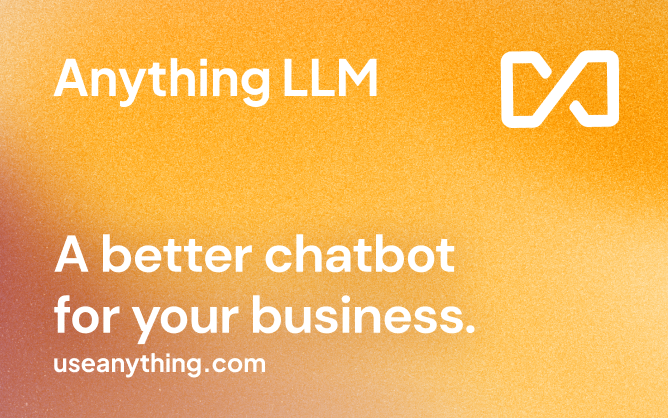
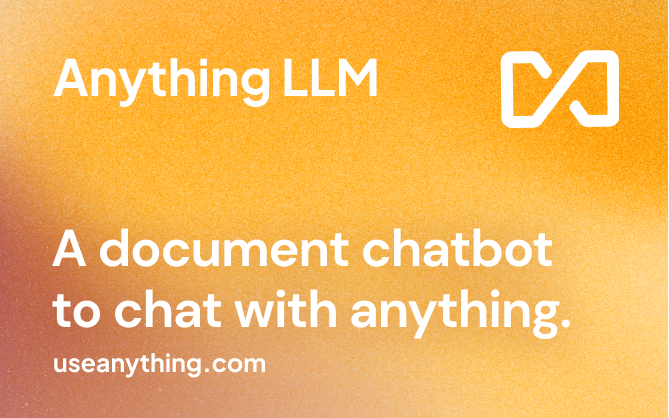
Update screenshots of new UI Update README to point to updated YT video

Changed region(s): [[0.0598, 0.6842, 0.867, 0.8397], [0.0598, 0.5287, 0.8371, 0.6531]]

diff --git a/README.md b/README.md
@@ -3,8 +3,8 @@
 </p>
 
 <p align="center">
-    <b>AnythingLLM: A business-compliant document chatbot</b>. <br />
-    A hyper-efficient and open-source enterprise-ready document chatbot solution for all.
+    <b>AnythingLLM: A document chatbot to chat with <i>anything!</i></b>. <br />
+    An efficient, customizable, and open-source enterprise-ready document chatbot solution.
 </p>
 
 <p align="center">
@@ -22,15 +22,14 @@
   </a>
 </p>
 
-A full-stack application that enables you to turn any document, resource, or piece of content into context that any LLM can use as references during chatting. This application allows you to pick and choose which LLM or Vector Database you want to use. Currently this project supports [Pinecone](https://pinecone.io), [ChromaDB](https://trychroma.com) & more for vector storage and [OpenAI](https://openai.com) for LLM/chatting.
+A full-stack application that enables you to turn any document, resource, or piece of content into context that any LLM can use as references during chatting. This application allows you to pick and choose which LLM or Vector Database you want to use.
 
-
-![Chatting](/images/screenshots/chat.png)
+![Chatting](/images/screenshots/chatting.gif)
 [view more screenshots](/images/screenshots/SCREENSHOTS.md)
 
 ### Watch the demo!
 
-[![Watch the video](/images/youtube.png)](https://youtu.be/0vZ69AIP_hM)
+[![Watch the video](/images/youtube.png)](https://youtu.be/f95rGD9trL0)
 
 
 ### Product Overview
@@ -47,9 +46,23 @@ Some cool features of AnythingLLM
 - Each chat response contains a citation that is linked to the original content
 - Simple technology stack for fast iteration
 - 100% Cloud deployment ready.
-- "Bring your own LLM" model. _still in progress - openai support only currently_
+- "Bring your own LLM" model.
 - Extremely efficient cost-saving measures for managing very large documents. You'll never pay to embed a massive document or transcript more than once. 90% more cost effective than other document chatbot solutions.
 - Full Developer API for custom integrations!
+
+### Supported LLMs and Vector Databases
+**Supported LLMs:**
+- OpenAI
+- Azure OpenAI
+- Anthropic ClaudeV2
+
+**Supported Vector Databases:**
+- [LanceDB](https://github.com/lancedb/lancedb) (default)
+- [Pinecone](https://pinecone.io)
+- [Chroma](https://trychroma.com)
+- [Weaviate](https://weaviate.io)
+- [QDrant](https://qdrant.tech)
+
 
 ### Technical Overview
 This monorepo consists of three main sections:

diff --git a/images/screenshots/SCREENSHOTS.md b/images/screenshots/SCREENSHOTS.md
@@ -4,11 +4,15 @@
 ![Homescreen](./home.png)
 
 ### Document Manager
-⚡ means the current version of the document has been embedded before and will not cost money to convert into a vector!
+`Cached` means the current version of the document has been embedded before and will not cost money to convert into a vector!
 ![Document Manager](./document.png)
 
-### Chatting
-![Chatting](./chat.png)
+### Document Uploading & Embedding
+![Uploading Document](./uploading_doc.gif)
 
-### Setup check
-![Setup check](./keys.png)
+### Chatting
+![Chatting](./chatting.gif)
+
+### Settings & Configs
+![LLM Selection](./llm_selection.png)
+![Vector Database Selection](./vector_databases.png)
